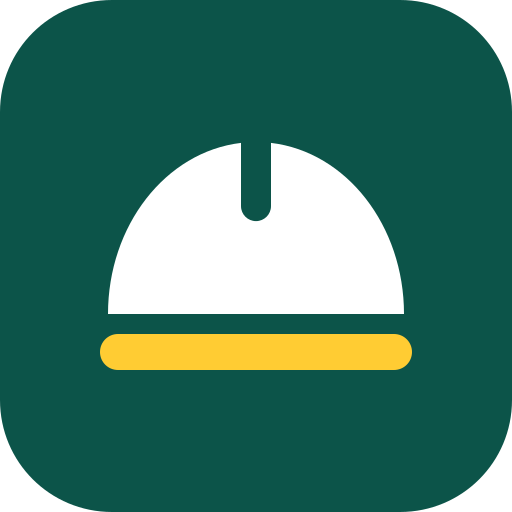
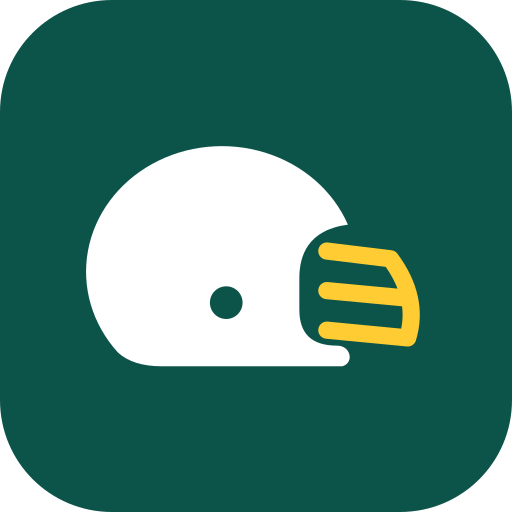
Brand: the HELMET mark is now a football helmet, drawn from geometry

Changed region(s): [[0.1562, 0.2812, 0.8438, 0.75]]

diff --git a/site/brand/README.md b/site/brand/README.md
@@ -1,14 +1,15 @@
 # HELMET brand files
 
-**The mark is a helmet seen from the front: a dome with one vent slot, and a gold brim**, because HELMET is what every
-app puts on before it ships. One slot, one brim, nothing else.
+**The mark is an American football helmet in side view, facing right, with a gold face mask**, because HELMET is what
+every app puts on before it ships. A white shell, a clear face opening, a jaw guard, one ear hole, and one gold detail:
+the mask. It suits Wayne State's Warriors green and gold.
 
 ## Colours
 | Role | Colour |
 |---|---|
-| Dome, tile | Wayne State green `#0C5449` |
-| Brim (the only gold) | Wayne State gold `#FFCC33` |
-| Dome on the tile or on dark backgrounds | White `#FFFFFF` |
+| Shell on a light background, tile | Wayne State green `#0C5449` |
+| Face mask (the only gold) | Wayne State gold `#FFCC33` |
+| Shell on the tile or on dark backgrounds | White `#FFFFFF` |
 | Site accent only, never in the mark | Berry `#8B2145` (WayneUI `functional.nonproduction`; HELMET owns the environment ribbon) |
 
 Gold never sits behind white text.
@@ -16,21 +17,30 @@ Gold never sits behind white text.
 ## Files
 | File | Use |
 |---|---|
-| `helmet-mark.svg` | The mark on light backgrounds: green dome, gold brim |
-| `helmet-mark-white.svg` | The mark on dark or green backgrounds: white dome, gold brim |
+| `helmet-mark.svg` | The mark on light backgrounds: green shell, gold mask |
+| `helmet-mark-white.svg` | The mark on dark or green backgrounds: white shell, gold mask |
 | `helmet-mark-mono.svg` | One colour (`currentColor`), for print and single-ink use |
 | `helmet-tile.svg` | The app icon: a green rounded tile with the white helmet |
-| `helmet-favicon.svg` | The tile simplified for 32 and 64 px: a wider slot and a thicker brim |
-| `helmet-favicon-16.svg` | Hand-hinted on the 16 px grid. One unit is one pixel. The slot is left out here: through the crown it turns the dome into two ears, and closed it looks like a window |
+| `helmet-favicon.svg` | The tile simplified for 32 and 64 px: two mask bars instead of three, and thicker bars |
+| `helmet-favicon-16.svg` | Hand-hinted on the 16 px grid. One unit is one pixel. The ear hole is a single pixel and the mask keeps one clear column between it and the shell |
 | `helmet-avatar-512.png` | The GitLab project avatar and the Open Graph image base |
 | `helmet-mark-1024.png`, `helmet-mark-white-1024.png` | Raster marks for slides and documents |
 | `favicon-16.png`, `favicon-32.png`, `favicon-64.png`, `favicon.ico` | Browser favicons; the `.ico` holds all three |
 
 ## Geometry
 The SVGs are drawn from exact geometry, not traced.
-- **The dome:** the top half of an ellipse, 296 units wide and 172 tall, on a flat base.
-- **The slot:** 30 units wide on the centre line, from the crown down to 46% of the dome's height, with a round end.
-- **The brim:** 36 units tall with fully round ends, 20 below the dome and 8 wider than it on each side.
+- **The shell:** an ellipse 316 units wide and 292 tall, cut off by a flat lower edge with a small rounded nape. Under
+  the brow the shell steps back to a straight face-opening edge, and a jaw guard reaches forward at the bottom.
+- **The ear hole:** a circle of radius 19, cut out of the shell.
+- **The mask:** three horizontal bars, 20 units thick with round ends, joined by a front upright that bows gently and
+  leans forward at the bottom. The bars tilt 9 units down towards the front. The mask is the only gold, and it stays
+  about 10 units clear of the shell so the two shapes never merge.
+- **The mask is drawn with strokes** (round caps and joins) so the bars stay an even thickness. In the one-colour
+  version both shapes use `currentColor`; the gap keeps them apart.
+
+Two rules came out of earlier drafts. There is no symmetric dome with a vertical slot, because it read as the wrong
+thing. And the front upright of the mask is never bent into a character shape such as a "3": it stays a gentle curve,
+with the bars clearly horizontal.
 
 ## Rendering
 The PNGs were rendered with Inkscape 1.4, for example
